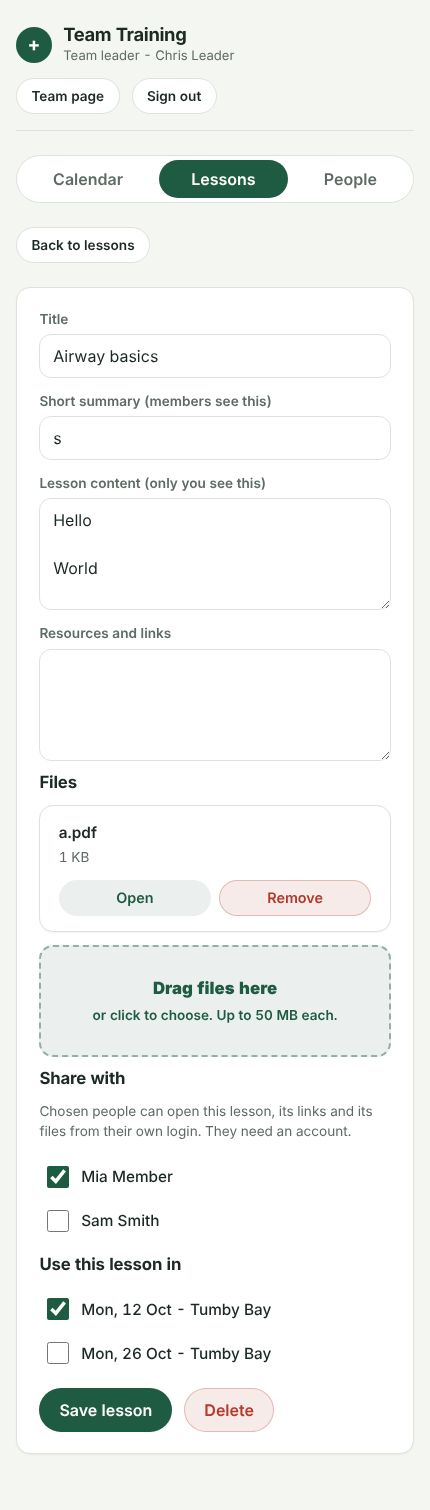
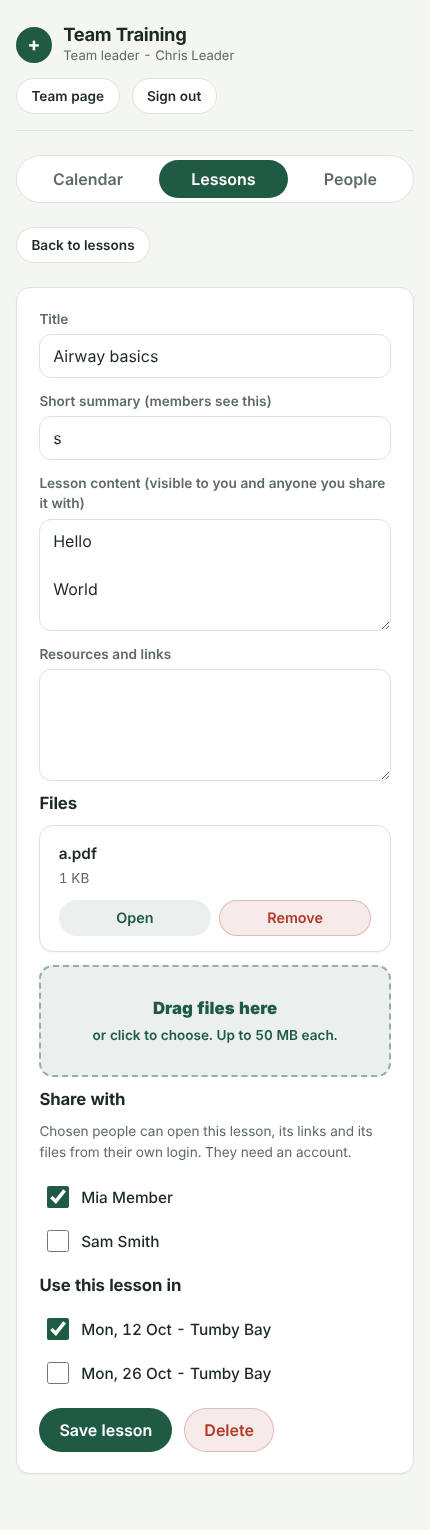
Session reflection notes and attendance filter
Claude-Session: https://claude.ai/code/session_01Y6pwdEdA1Ses7yJGH5gURv

diff --git a/training/index.html b/training/index.html
@@ -26,7 +26,7 @@
   var $toast = document.getElementById("toast");
   var S = {
     user: null, profile: null, tab: "calendar", view: null,
-    groups: [], lessons: [], sessions: [], bookings: [], profiles: [], memberships: [],
+    reflections: {}, attFilter: null, attSession: null, groups: [], lessons: [], sessions: [], bookings: [], profiles: [], memberships: [],
     mySessions: [], myBookings: {}, filter: "all", typeFilter: "all", showPast: false, authMode: "in", detail: null, lessonEdit: null, personEdit: null,
     shared: [], files: [], shares: [], roster: [], rosterSession: null, lessonView: null, memberTab: "sessions", delSession: null
   };
@@ -102,8 +102,10 @@
       q(sb.from("memberships").select("*")),
       q(sb.from("attendance").select("*")),
       q(sb.from("lesson_files").select("*").order("created_at")),
-      q(sb.from("lesson_shares").select("*"))
+      q(sb.from("lesson_shares").select("*")),
+      q(sb.from("session_reflections").select("*"))
     ]).then(function (r) {
+      S.reflections = {}; r[9].forEach(function (x) { S.reflections[x.session_id] = x.notes; });
       S.groups = r[0]; S.lessons = r[1]; S.sessions = r[2]; S.bookings = r[3];
       S.profiles = r[4]; S.memberships = r[5]; S.attendance = r[6]; S.files = r[7]; S.shares = r[8];
     });
@@ -235,7 +237,7 @@
       return '<li><button class="item" data-act="open" data-id="' + s.id + '">' + tile(s.session_date) +
         '<div class="what"><span class="t">' + (l ? esc(l.title) : s.topic ? esc(s.topic) : '<span class="muted">' + (team ? "No topic yet" : "No lesson yet") + "</span>") + "</span>" +
         '<span class="small muted">' + timeRange(s) + (s.location ? " - " + esc(s.location) : "") + (ledBy(s) ? " - " + esc(ledBy(s)) : "") + '</span><span class="row">' + groupChip(groupOf(s.group_id)) + typeChip(s.session_type) + "</span></div>" +
-        '<div class="act">' + set + (team && !s.facilitator_name ? '<span class="chip warn">Needs facilitator</span>' : "") + '<span class="chip">' + n + " booked</span></div></button></li>";
+        '<div class="act">' + set + (team && !s.facilitator_name ? '<span class="chip warn">Needs facilitator</span>' : "") + '<span class="chip">' + n + " booked</span>" + (S.reflections[s.id] ? '<span class="chip good">Reflection</span>' : s.session_date < t ? '<span class="chip warn">Needs reflection</span>' : "") + "</div></button></li>";
     }).join("") + "</ul>";
   }
 
@@ -261,10 +263,36 @@
       '<label>Notes for you<input id="s-notes" name="notes" value="' + esc(s.notes || "") + '"></label>' +
       '<div class="row"><button class="btn" type="submit">Save session</button>' + (S.delSession === s.id ? "" : '<button class="btn danger" type="button" data-act="asksession" data-id="' + s.id + '">Delete session</button>') + "</div></form>" +
       (S.delSession === s.id ? '<div class="notice stack"><p><strong>Delete this session?</strong> Its bookings and attendance are removed too. This cannot be undone.</p><div class="row"><button class="btn danger small" type="button" data-act="deletesession" data-id="' + s.id + '">Yes, delete session</button><button class="btn ghost small" type="button" data-act="keepsession">Keep it</button></div></div>' : "") + "</section>" +
-      '<section class="panel pad stack"><h3>Attendance</h3>' +
-      (members.length ? '<p class="small muted">Tick each person who came. Those who booked are marked.' + (s.session_type === "team" && s.facilitator_id && s.facilitator_id !== S.profile.id ? " The facilitator can also tick people on the night." : "") + '</p><ul>' + members.map(function (p) {
+      renderAttendance(s, members, att, bookedIds) + renderReflection(s);
+  }
+
+  function renderAttendance(s, members, att, bookedIds) {
+    if (!members.length) return '<section class="panel pad stack"><h3>Attendance</h3><p class="muted">No one is in this group yet. Add people in the People tab.</p></section>';
+    var came = members.filter(function (p) { return att[p.id]; }), nots = members.filter(function (p) { return !att[p.id]; });
+    var f = S.attFilter && S.attSession === s.id ? S.attFilter : (S.reflections[s.id] && came.length ? "came" : "all");
+    var shown = f === "came" ? came : f === "not" ? nots : members;
+    var chips = [["all", "Everyone (" + members.length + ")"], ["came", "Attended (" + came.length + ")"], ["not", "Not attended (" + nots.length + ")"]].map(function (x) {
+      return '<button type="button" aria-pressed="' + (f === x[0]) + '" data-act="attfilter" data-f="' + x[0] + '" data-sid="' + s.id + '">' + x[1] + "</button>";
+    }).join("");
+    return '<section class="panel pad stack"><h3>Attendance</h3><div class="filters" role="group" aria-label="Filter attendance">' + chips + "</div>" +
+      '<p class="small muted">Tick each person who came. Those who booked are marked. Nobody is removed when you tick them, so you can still add or fix people; use the filters to see just who attended.' + (s.session_type === "team" && s.facilitator_id && s.facilitator_id !== S.profile.id ? " The facilitator can also tick people on the night." : "") + "</p>" +
+      (shown.length ? "<ul>" + shown.map(function (p) {
         return '<li><label class="check"><input type="checkbox" data-act="attend" data-sid="' + s.id + '" data-mid="' + p.id + '"' + (att[p.id] ? " checked" : "") + "> <span>" + esc(nameOf(p)) + "</span>" + (bookedIds[p.id] ? ' <span class="chip good">Booked</span>' : "") + "</label></li>";
-      }).join("") + "</ul>" : '<p class="muted">No one is in this group yet. Add people in the People tab.</p>') + "</section>";
+      }).join("") + "</ul>" : '<p class="muted">' + (f === "came" ? "No one is marked as attended yet." : "Everyone is marked as attended.") + "</p>") + "</section>";
+  }
+
+  function renderReflection(s) {
+    var has = S.reflections[s.id] != null;
+    return '<form class="panel pad stack" data-form="reflection" data-id="' + s.id + '"><h3>Reflection</h3><p class="small muted">Your notes on how this session went. They belong to this session only and are never shown to members.</p>' +
+      '<label>Notes<textarea id="s-reflect" name="notes" rows="7" placeholder="What worked, what to change, who needed more help, anything to follow up...">' + esc(S.reflections[s.id] || "") + "</textarea></label>" +
+      '<div class="row"><button class="btn" type="submit">Save reflection</button>' + (has ? '<span class="small muted">Saved</span>' : "") + "</div></form>";
+  }
+
+  function saveReflection(form) {
+    var id = form.dataset.id, notes = new FormData(form).get("notes").trim();
+    var job = notes ? sb.from("session_reflections").upsert({ session_id: id, notes: notes, updated_at: new Date().toISOString() }, { onConflict: "session_id" })
+      : sb.from("session_reflections").delete().eq("session_id", id);
+    return job.then(function (r) { if (r.error) throw r.error; if (notes) S.reflections[id] = notes; else delete S.reflections[id]; toast("Reflection saved."); render(); }).catch(fail);
   }
 
   function saveSession(form) {
@@ -540,8 +568,9 @@
         S.delSession = null; S.detail = null; toast("Session deleted."); return refresh();
       }).catch(fail);
     },
+    attfilter: function (d) { S.attSession = d.sid; S.attFilter = d.f; render(); },
     past: function () { S.showPast = !S.showPast; render(); },
-    open: function (d) { S.detail = d.id; render(); window.scrollTo(0, 0); },
+    open: function (d) { S.detail = d.id; S.attFilter = null; render(); window.scrollTo(0, 0); },
     back: function () { S.detail = null; render(); },
     newlesson: function () { S.lessonEdit = "new"; render(); },
     editlesson: function (d) { S.lessonEdit = d.id; render(); window.scrollTo(0, 0); },
@@ -621,7 +650,8 @@
       job = job.catch(fail);
     } else if (kind === "resetpw") {
       job = sb.rpc("leader_set_password", { member: form.dataset.id, new_password: f.get("pw") }).then(function (r) { if (r.error) throw r.error; form.reset(); toast("Password set. Let them know."); }).catch(fail);
-    } else if (kind === "session") job = saveSession(form);
+    } else if (kind === "reflection") job = saveReflection(form);
+    else if (kind === "session") job = saveSession(form);
     else if (kind === "lesson") job = saveLesson(form);
     else if (kind === "course") job = createCourse(form);
     else if (kind === "page") job = savePage(form);
